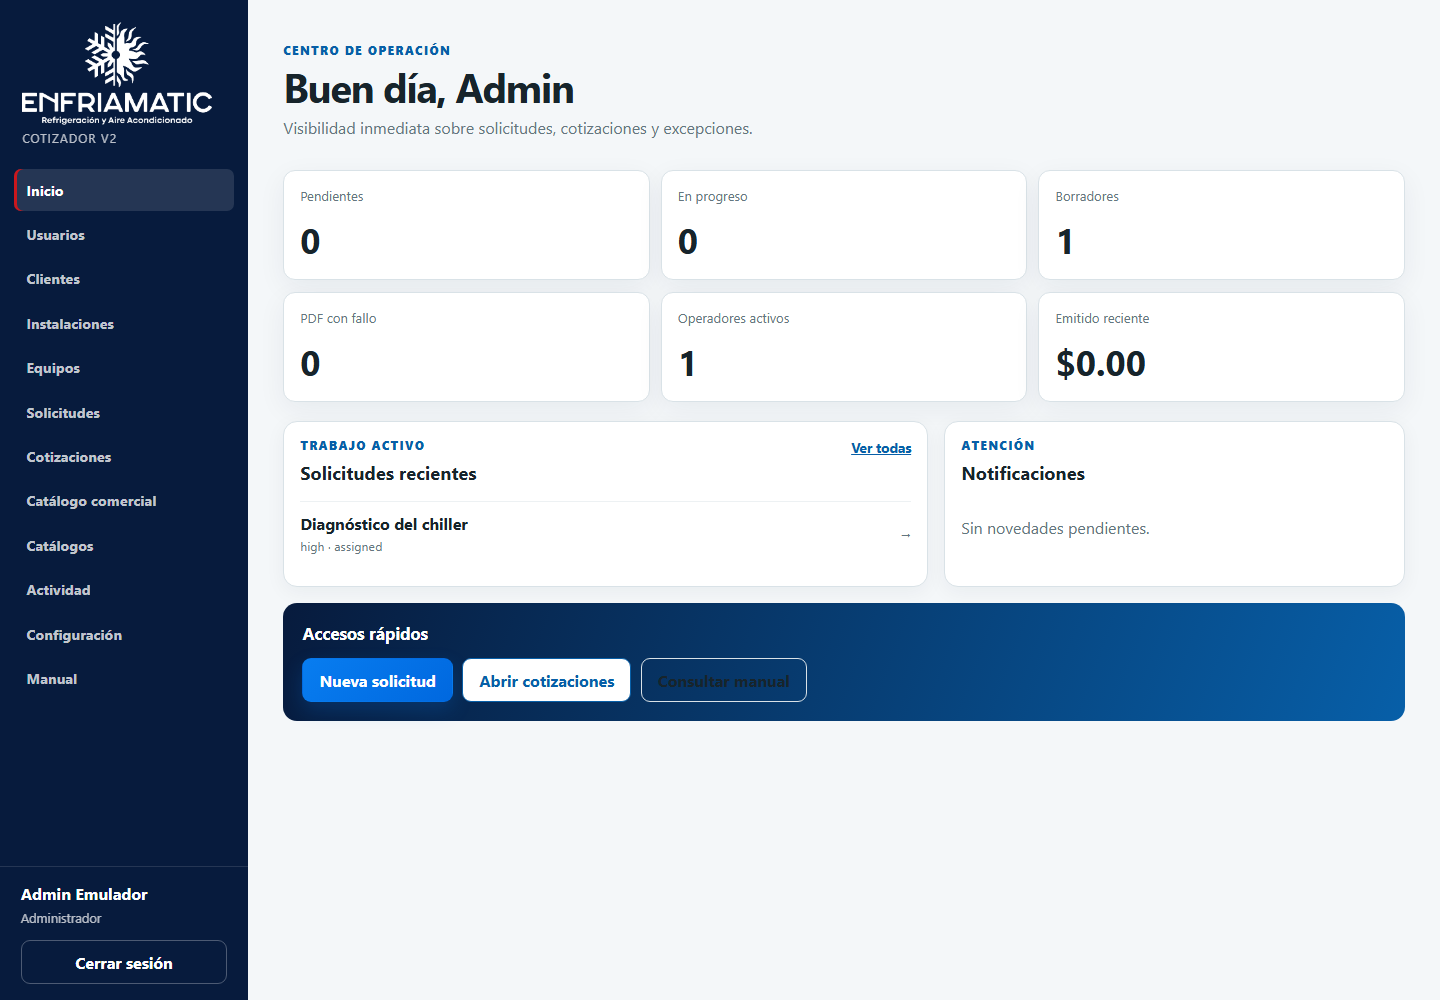
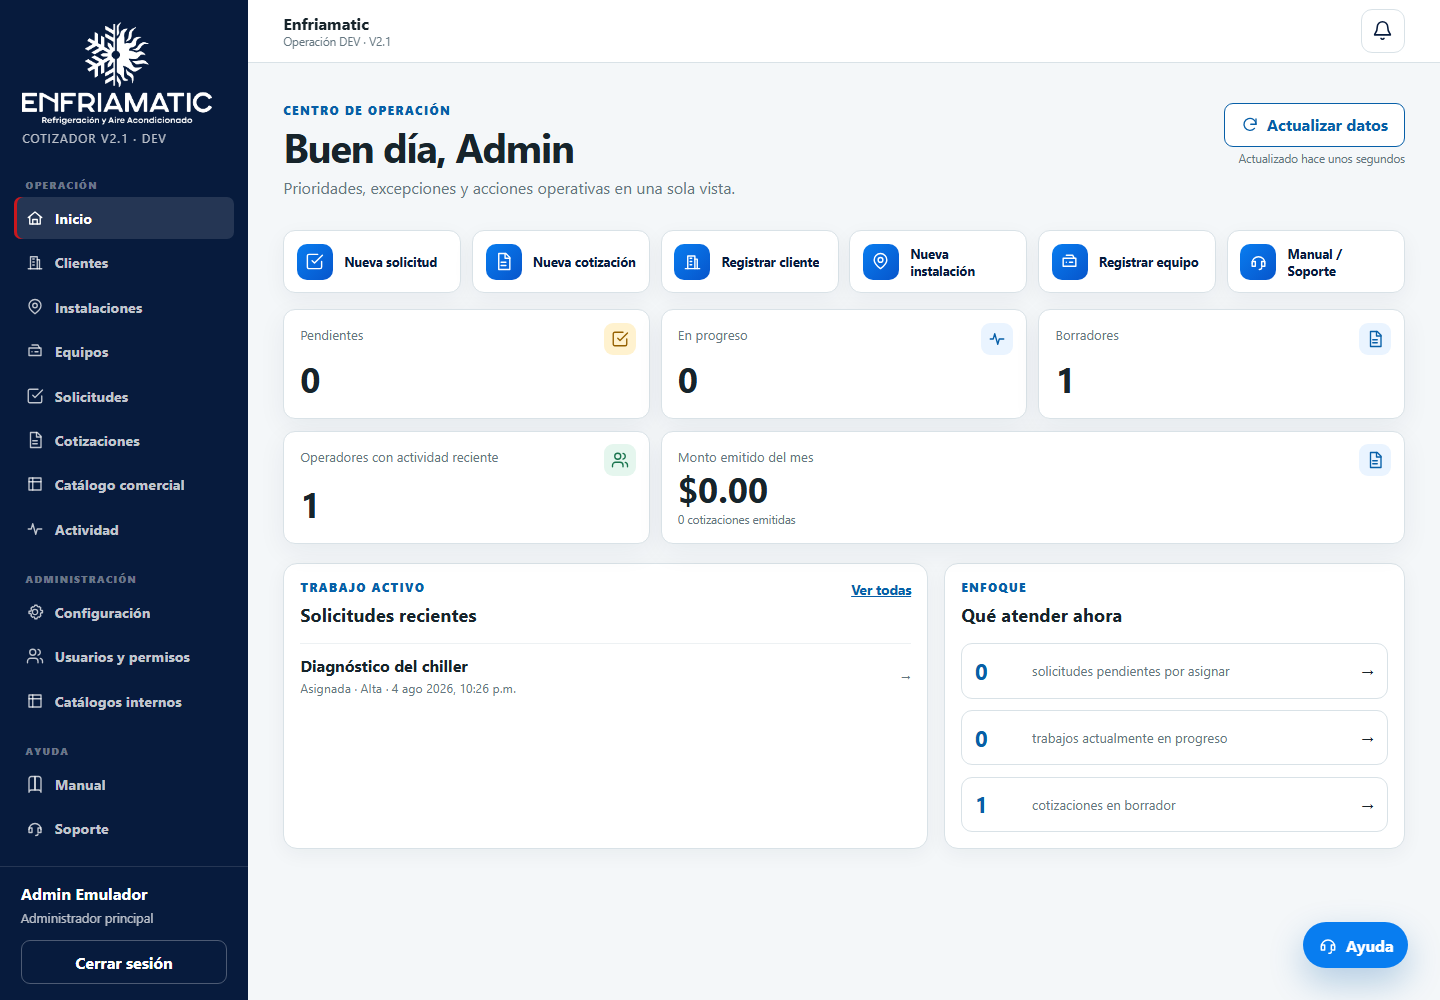
fix(ui): evitar superposicion de ayuda en movil

diff --git a/src/styles/global.css b/src/styles/global.css
@@ -825,6 +825,7 @@ input:invalid:not(:placeholder-shown) {
   font-size: 0.82rem;
 }
 .support-fab {
+  display: none;
   position: fixed;
   z-index: 24;
   right: 1rem;
@@ -1663,6 +1664,7 @@ th {
     grid-template-columns: repeat(6, minmax(0, 1fr));
   }
   .support-fab {
+    display: flex;
     right: 2rem;
     bottom: 2rem;
   }
